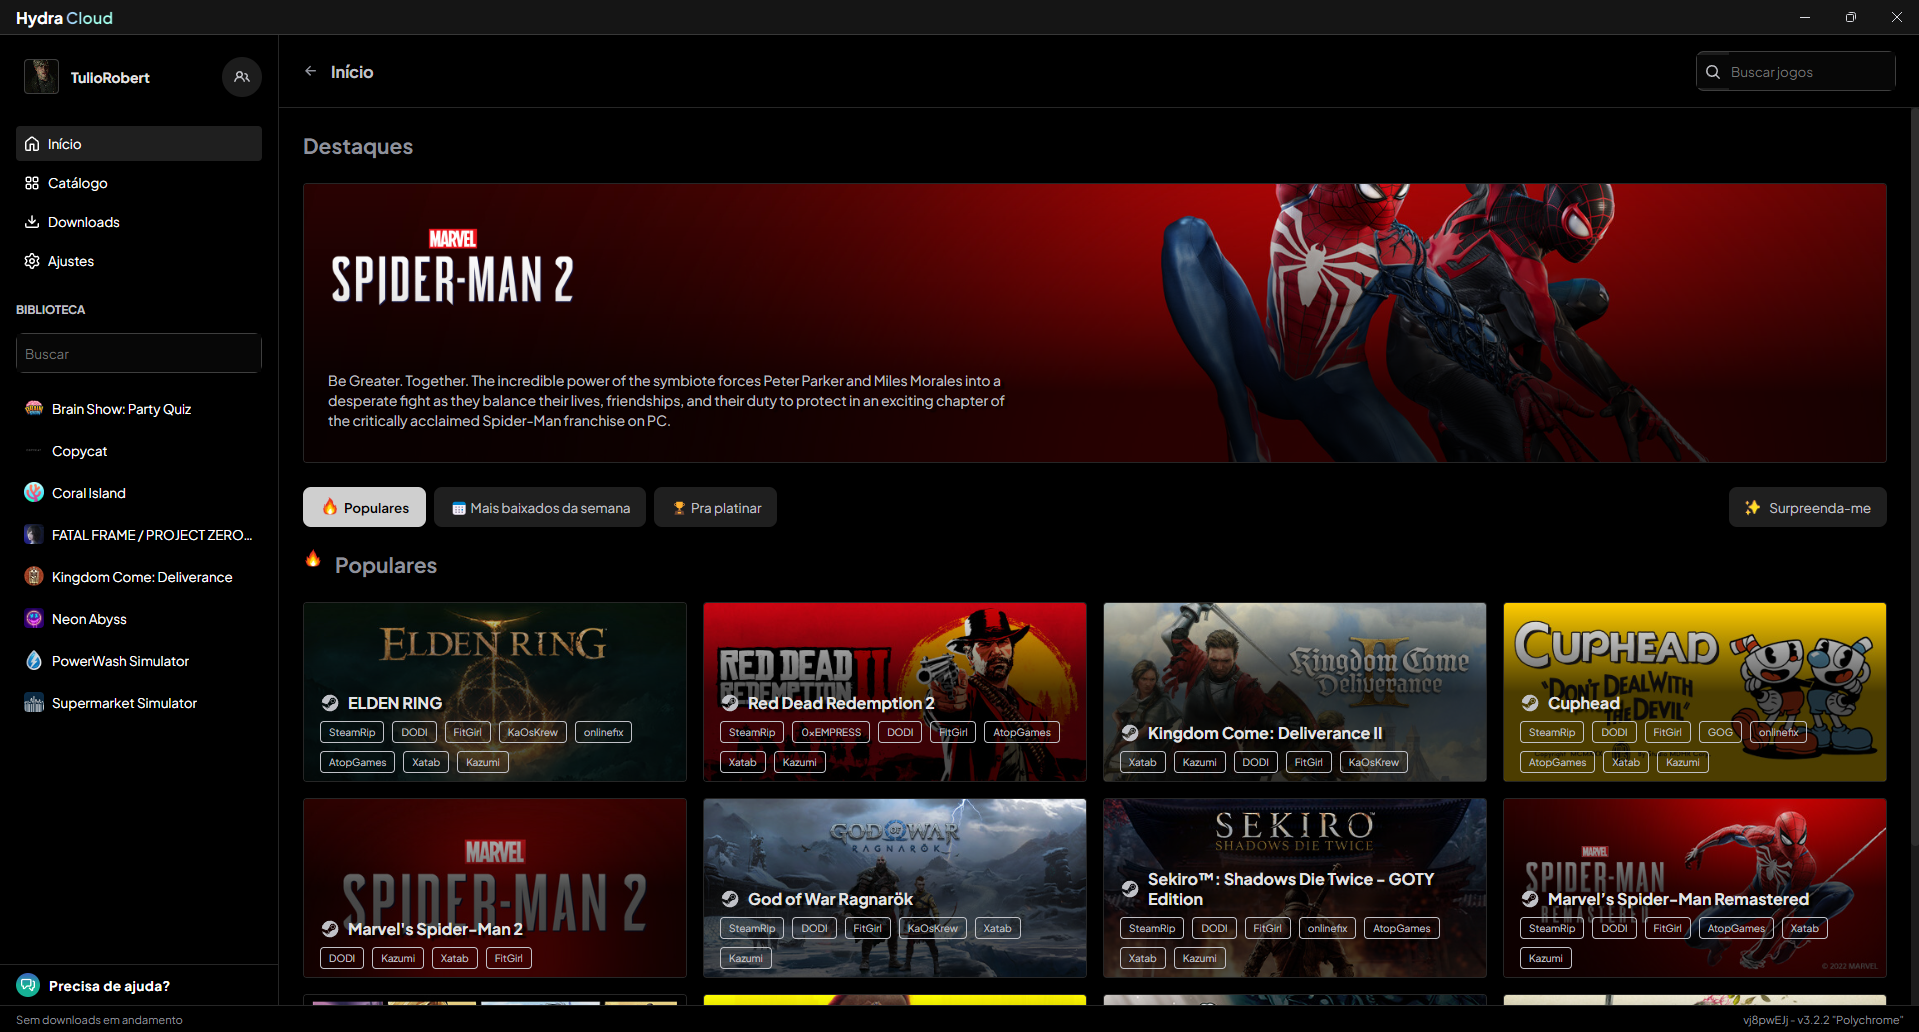
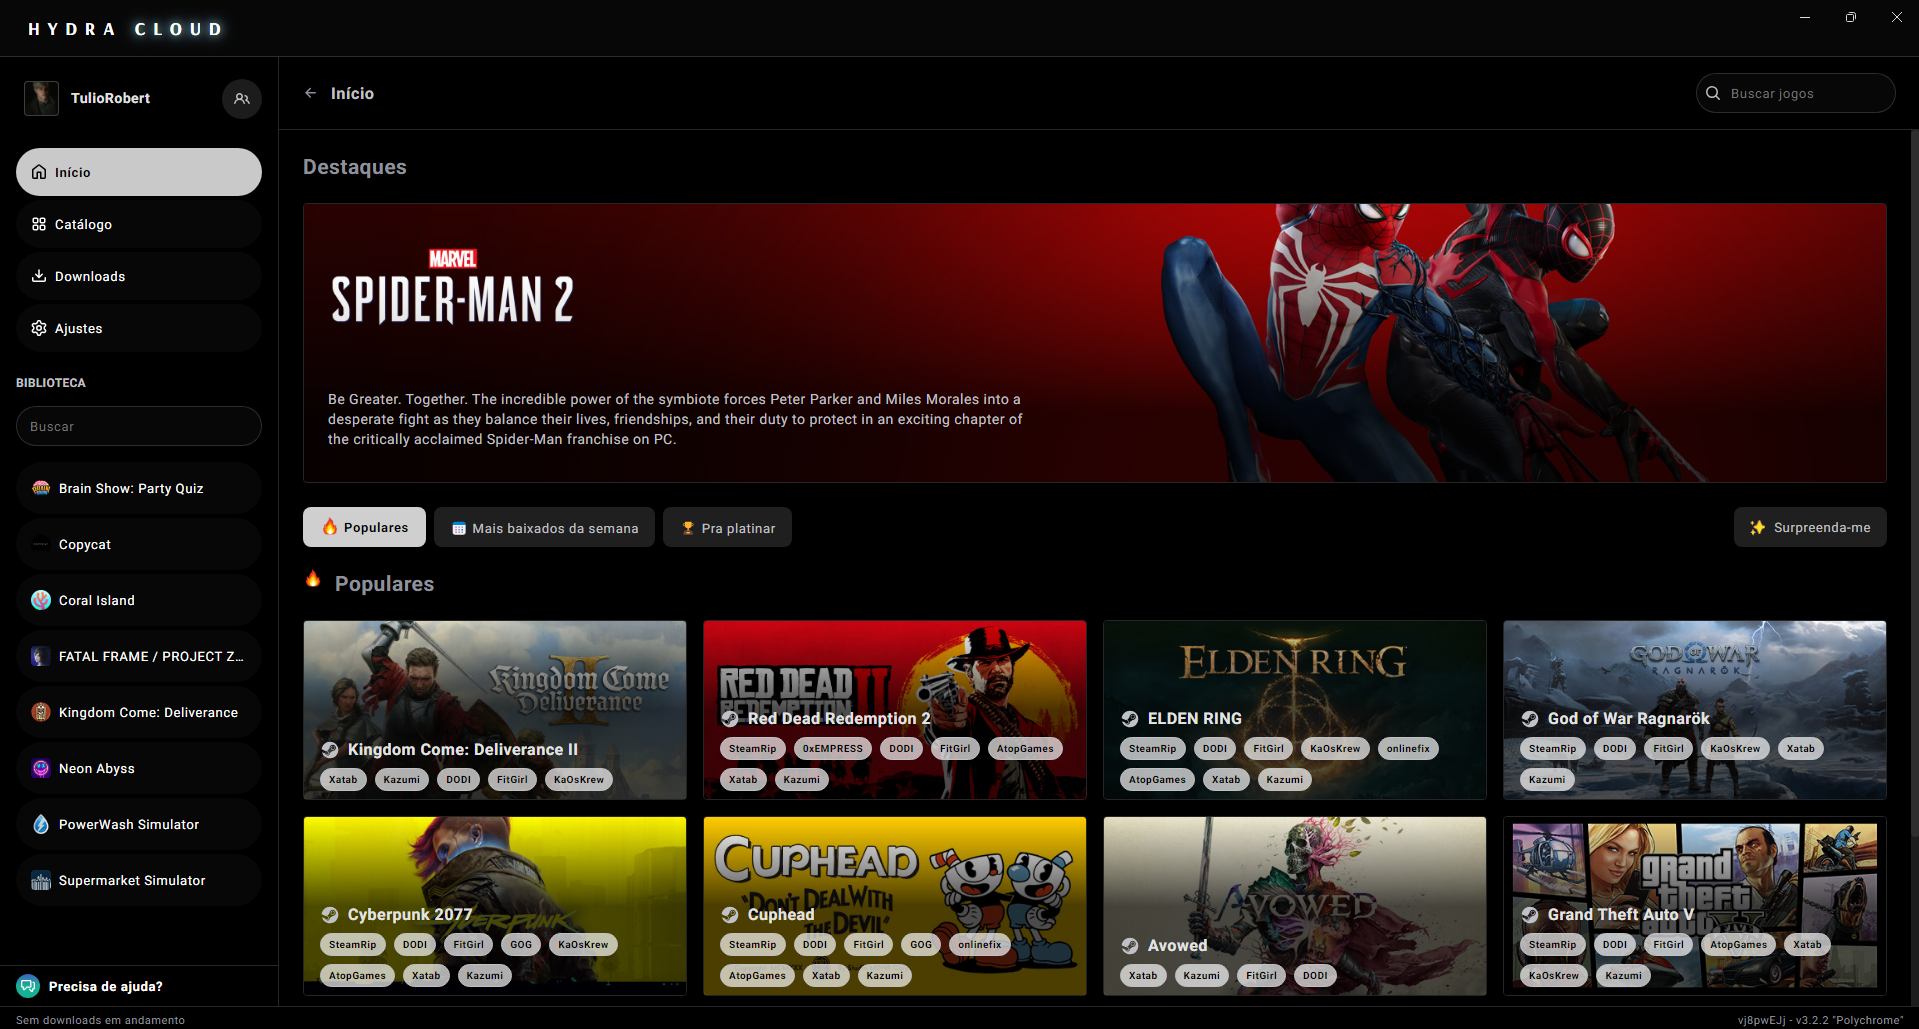
Changing some visual settings on Clean Project Theme (#208)
* Add Clean Project theme

* Update themes/Clean Project-byJqY2jp/theme.css

* Remove text-shadow of 'p'

* Changing some visual settings

* Update themes/Clean Project-byJqY2jp/theme.css

---------

diff --git a/themes/Clean Project-byJqY2jp/theme.css b/themes/Clean Project-byJqY2jp/theme.css
@@ -1,8 +1,11 @@
   /* Header */
-  @import url('https://fonts.googleapis.com/css2?family=Plus+Jakarta+Sans:ital,wght@0,200..800;1,200..800&display=swap');
+  @import url('https://fonts.googleapis.com/css2?family=Roboto:ital,wght@0,100..900;1,100..900&display=swap');
+
+  @import url('https://fonts.googleapis.com/css2?family=Arsenal+SC:ital,wght@0,400;0,700;1,400;1,700&display=swap');
 
   * {
-    font-family: "Plus Jakarta Sans", sans-serif;
+    font-family: 'Roboto', sans-serif;
+    letter-spacing: 0.5px;
   }
 
   p {
@@ -14,16 +17,33 @@
     background-color: #000;
   }
 
-  .title-bar h4 {
-    color: #fff;
-    font-size: 16px;
+  .title-bar {
+    background: #070707;
+    padding: 2em;
   }
 
-  .title-bar__cloud-text {
+  .title-bar h4, .title-bar span {
+    color: #fff;
+    font-size: 18px;
+    letter-spacing: 8px;
+    font-family: 'Arsenal SC', sans-serif;
+    text-transform: uppercase;
+  }
+
+  @keyframes glow {
+    0% { text-shadow: 0 0 2px rgba(163, 255, 238, 0.8), 0 0 10px rgba(163, 255, 238, 0.6); }
+    50% { text-shadow: 0 0 10px rgba(163, 255, 238, 1), 0 0 20px rgba(160, 187, 255, 1); }
+    100% { text-shadow: 0 0 2px rgba(163, 255, 238, 0.8), 0 0 10px rgba(163, 255, 238, 0.6); }
+}
+
+.title-bar__cloud-text {
     background: linear-gradient(270deg, #a3ffee 50%, #a0bbff 100%);
     background-clip: text;
     color: transparent;
-  }
+    text-shadow: 0 0 5px rgba(163, 255, 238, 0.8), 
+                 0 0 10px rgba(163, 255, 238, 0.6);
+    animation: glow 1.5s infinite alternate;
+}
 
   .theme_title {
     position: absolute;
@@ -36,16 +56,30 @@
     background: #000;
   }
 
-  .sidebar__menu-item--active{
-    background: #1f1f1f;
-  }
-  
   .sidebar__menu-item {
-    color: #fff;
+    background: #070707;
   }
 
-  .text-field-container__text-field-input, .header__search-input, .header__action-button {
+  .sidebar__menu-item--active {
+    background: #c9c9c9;
+    border-radius: 30px;
+    padding: 0.5em;
+  }
+
+  .sidebar__menu-item--active:hover {
+    background: #f1f1f1;
+  }
+
+  .sidebar__menu-item--active span, .sidebar__menu-item--active svg {
+    color: #000;
+    font-weight: bold;
+  }
+
+  .sidebar__menu-item {
     background: #070707;
+    color: #fff;
+    border-radius: 30px;
+    padding: 0.5em;
   }
 
   /* Main content */
@@ -61,18 +95,35 @@
     background: #000;
   }
 
+  .description-header {
+    background-color: #0e0e0e;
+  }
+
+  .gallery-slider__container {
+    background: #070707;
+  }
+
+  .gallery-slider__animation-container {
+    width: 100%;
+  }
+
+  .game-details__description {
+    background: #000;
+    padding: 3em;
+    width: 100%;
+    border: 1px solid rgba(255, 255, 255, 0.1);
+  }
+
   .downloads__container {
     background: #000;
   }
 
-  .download-group__title {
-    color: #fff;
+  .download-group__right-content {
+    background: #070707;
   }
 
-  .download-group__right-content, .gallery-slider__container,
-  .game-details__description, .description-header,
-  .content-sidebar {
-    background: #070707;
+  .download-group__title {
+    color: #fff;
   }
 
   .settings-download-sources__item {
@@ -107,8 +158,29 @@
     background: #070707;
   }
 
+  .friends-box__box {
+    background: #070707;
+  }
+
   .modal {
     background-color: #070707;
+  }
+
+  .profile-hero__display-name {
+    color: #fff;
+    letter-spacing: 4px;
+  }
+
+  .profile-hero__hero-panel {
+    background: rgba(0, 0, 0, 0.8);
+  }
+
+  .sidebar-section {
+    background: #070707;
+  }
+
+  .sidebar-section__button {
+    background: #141414;
   }
 
   /* Bottom panel */
@@ -127,9 +199,21 @@
     border: none;
   }
 
+  .button--outline:hover {
+    background: #494949;
+  }
+
   .button--primary {
     background-color: rgb(207, 207, 207);
     font-weight: bold;
+  }
+
+  .button--dark {
+    background: #801d1e;
+  }
+
+  .button--dark:hover {
+    background: #b3203f;
   }
 
   .sidebar__help-button {
@@ -138,3 +222,20 @@
     letter-spacing: 0.5px;
   }
 
+  .badge {
+    border-radius: 30px;
+    background: rgba(255, 255, 255, 0.678);
+    color: #000;
+    font-weight: bold;
+  }
+
+  .header__search {
+    border-radius: 20px;
+    background: #070707;
+  }
+
+  .text-field-container__text-field--dark {
+    border-radius: 20px;
+    background: #070707;
+    padding-left: 5px;
+  }
